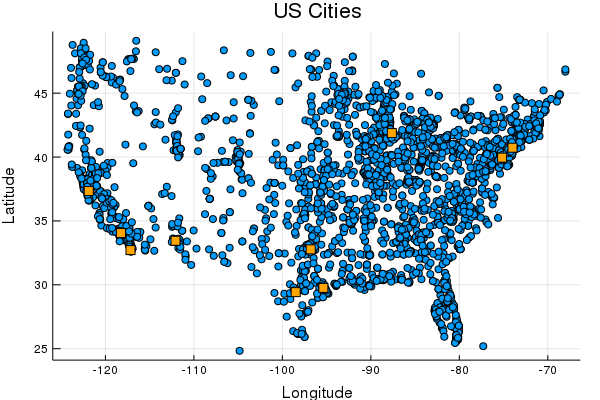
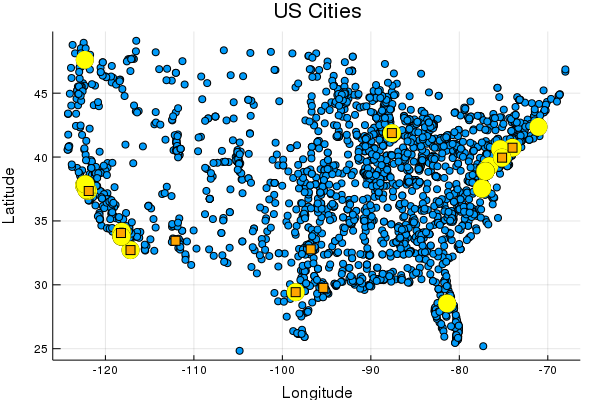
Added a places.jl include file

diff --git a/README.md b/README.md
@@ -64,21 +64,30 @@ function plotcities()
     # scatter plots
     df1 = filter(row -> row[:population] > 900_000, df)
     df2 = filter(row -> row[:population] <= 900_000, df)
+    df3 = filter(row -> haskey(places, row[:name]) , df)
+
     # scatter plot of lat/long - for df2 cities (below 1m pop.)
-    scatter(df2[:longitude], df2[:latitude],
+    p0 = scatter(df2[:longitude], df2[:latitude],
         title = "US Cities",
         xlabel = "Longitude",
         ylabel = "Latitude",
         legend = false,
         markershape = :circle,
-        markercolor = :auto
+        markercolor = :auto,
         # markersize = 4
+        )
+    # scatter plot of lat/long - for df3 cities (visited)
+    scatter!(df3[:longitude], df3[:latitude],
+        legend = false,
+        markershape = :circle,
+        markercolor = :yellow,
+        markersize = 10
         )
     # scatter plot of lat/long - for df1 cities (above 1m pop.)
     scatter!(df1[:longitude], df1[:latitude],
         legend = false,
         markershape = :rect,
-        markercolor = :orange
+        markercolor = :orange,
         # markersize = 4
         )
     savefig("images/plotcities-latlong.png")
